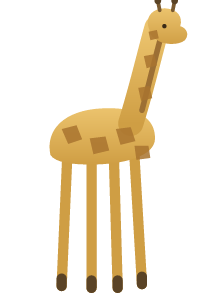
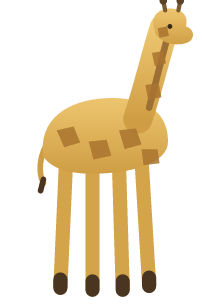
Grove: sturdier giraffe sprite
Thicken the legs and hooves, bulk out and round the body, widen the
stance, and add a tufted tail so the giraffe reads solidly rather than
spindly at full size.

Claude-Session: https://claude.ai/code/session_012Y31k2fRGnrx2NzYjmB8MW

Changed region(s): [[0.1818, 0.0, 0.9697, 0.9867]]

diff --git a/themes/grove/build-assets.js b/themes/grove/build-assets.js
@@ -284,17 +284,18 @@ save('acacia', S('236 190', `<defs><linearGradient id="ac" x1="0" y1="0" x2="0" 
 <ellipse cx="118" cy="44" rx="104" ry="17" fill="url(#acf)"/>
 <ellipse cx="118" cy="37" rx="78" ry="12" fill="#90af68"/>
 <g fill="#6f9450" opacity="0.5"><ellipse cx="56" cy="50" rx="24" ry="8"/><ellipse cx="118" cy="46" rx="30" ry="9"/><ellipse cx="182" cy="50" rx="24" ry="8"/></g>`), 210);
-save('giraffe', S('212 322', `<defs><linearGradient id="gf" x1="0" y1="0" x2="0" y2="1"><stop offset="0" stop-color="#ecc46e"/><stop offset="1" stop-color="#cf9e44"/></linearGradient></defs>
-<g stroke="#cf9e44" stroke-width="11" stroke-linecap="round"><line x1="72" y1="168" x2="66" y2="306"/><line x1="98" y1="170" x2="98" y2="308"/><line x1="122" y1="170" x2="126" y2="308"/><line x1="144" y1="168" x2="152" y2="304"/></g>
-<g stroke="#5a4326" stroke-width="11" stroke-linecap="round"><line x1="66" y1="298" x2="66" y2="306"/><line x1="98" y1="300" x2="98" y2="308"/><line x1="126" y1="300" x2="126" y2="308"/><line x1="152" y1="296" x2="152" y2="304"/></g>
-<path d="M54,166 C48,138 70,118 108,116 C144,114 166,124 166,148 C166,168 130,176 98,176 C76,176 60,174 54,166 Z" fill="url(#gf)"/>
-<path d="M140,132 C152,94 160,58 168,30" stroke="url(#gf)" stroke-width="27" fill="none" stroke-linecap="round"/>
-<path d="M152,118 C161,84 169,50 176,26" stroke="#9c6f34" stroke-width="6" fill="none" stroke-linecap="round"/>
-<path d="M160,32 C154,18 164,8 178,9 C190,10 196,18 193,28 C200,30 203,37 198,43 C191,49 174,48 167,42 C161,38 160,35 160,32 Z" fill="url(#gf)"/>
-<g stroke="#7a5a30" stroke-width="4" stroke-linecap="round"><line x1="171" y1="11" x2="169" y2="1"/><line x1="185" y1="11" x2="187" y2="1"/></g>
-<circle cx="169" cy="1" r="3.6" fill="#5a4326"/><circle cx="187" cy="1" r="3.6" fill="#5a4326"/>
-<circle cx="176" cy="28" r="2.4" fill="#3a2a16"/>
-<g fill="#a9742f" opacity="0.85"><path d="M66,138 l16,-4 l6,15 l-15,5 Z"/><path d="M96,148 l17,-2 l4,15 l-17,4 Z"/><path d="M124,138 l16,-2 l5,15 l-16,4 Z"/><path d="M144,156 l15,0 l2,13 l-15,2 Z"/><path d="M148,94 l12,-2 l3,13 l-12,3 Z"/><path d="M154,60 l11,-2 l3,12 l-11,3 Z"/><path d="M159,34 l9,-2 l2,9 l-9,2 Z"/></g>`), 198);
+save('giraffe', S('214 322', `<defs><linearGradient id="gf" x1="0" y1="0" x2="0" y2="1"><stop offset="0" stop-color="#eec670"/><stop offset="1" stop-color="#cf9e44"/></linearGradient></defs>
+<g stroke="#d4a44a" stroke-width="15" stroke-linecap="round"><line x1="70" y1="170" x2="64" y2="304"/><line x1="98" y1="172" x2="98" y2="306"/><line x1="126" y1="172" x2="130" y2="306"/><line x1="150" y1="170" x2="158" y2="302"/></g>
+<g stroke="#4a3520" stroke-width="15" stroke-linecap="round"><line x1="64" y1="296" x2="64" y2="305"/><line x1="98" y1="298" x2="98" y2="307"/><line x1="130" y1="298" x2="130" y2="307"/><line x1="158" y1="294" x2="158" y2="303"/></g>
+<path d="M52,150 C42,162 40,182 46,194" stroke="#cf9e44" stroke-width="6" fill="none" stroke-linecap="round"/><line x1="46" y1="190" x2="43" y2="202" stroke="#4a3520" stroke-width="6" stroke-linecap="round"/>
+<path d="M46,166 C40,128 70,106 112,104 C154,102 178,118 178,150 C178,174 136,184 98,184 C72,184 54,178 46,166 Z" fill="url(#gf)"/>
+<path d="M146,126 C158,90 166,54 174,30" stroke="url(#gf)" stroke-width="31" fill="none" stroke-linecap="round"/>
+<path d="M158,114 C167,80 175,46 182,24" stroke="#9c6f34" stroke-width="7" fill="none" stroke-linecap="round"/>
+<path d="M164,32 C158,18 168,8 182,9 C194,10 200,18 197,28 C204,30 207,37 202,43 C195,49 178,48 171,42 C165,38 164,35 164,32 Z" fill="url(#gf)"/>
+<g stroke="#7a5a30" stroke-width="4.5" stroke-linecap="round"><line x1="175" y1="11" x2="173" y2="1"/><line x1="189" y1="11" x2="191" y2="1"/></g>
+<circle cx="173" cy="1" r="4" fill="#5a4326"/><circle cx="191" cy="1" r="4" fill="#5a4326"/>
+<circle cx="180" cy="28" r="2.6" fill="#3a2a16"/>
+<g fill="#a9742f" opacity="0.85"><path d="M60,138 l18,-4 l7,17 l-17,5 Z"/><path d="M94,150 l19,-2 l5,17 l-19,4 Z"/><path d="M126,138 l18,-2 l6,17 l-18,5 Z"/><path d="M150,158 l17,0 l2,15 l-17,2 Z"/><path d="M154,90 l14,-2 l3,15 l-14,3 Z"/><path d="M161,56 l12,-2 l3,13 l-12,3 Z"/><path d="M167,30 l10,-2 l2,10 l-10,2 Z"/></g>`), 202);
 save('zebra', S('204 152', `
 <g stroke="#3a3a3a" stroke-width="9" stroke-linecap="round"><line x1="62" y1="92" x2="58" y2="138"/><line x1="86" y1="94" x2="86" y2="140"/><line x1="118" y1="94" x2="122" y2="140"/><line x1="142" y1="92" x2="148" y2="138"/></g>
 <path d="M46,94 C38,68 60,54 102,54 C142,54 160,64 160,86 C160,100 132,104 98,104 C68,104 54,104 46,94 Z" fill="#f2efe8"/>
@@ -358,7 +359,7 @@ save('volcano', S('420 300', `<defs>
 <g fill="#1d171f" opacity="0.55"><ellipse cx="120" cy="244" rx="20" ry="8"/><ellipse cx="322" cy="256" rx="22" ry="9"/><ellipse cx="286" cy="210" rx="12" ry="6"/></g>`), 420);
 
 // ---- contact sheet of new + polished ----
-const review = ['volcano'];
+const review = ['giraffe'];
 const cols = 4, cell = 230, pad = 14, rows = Math.ceil(review.length / cols);
 (async () => {
   const comps = [];